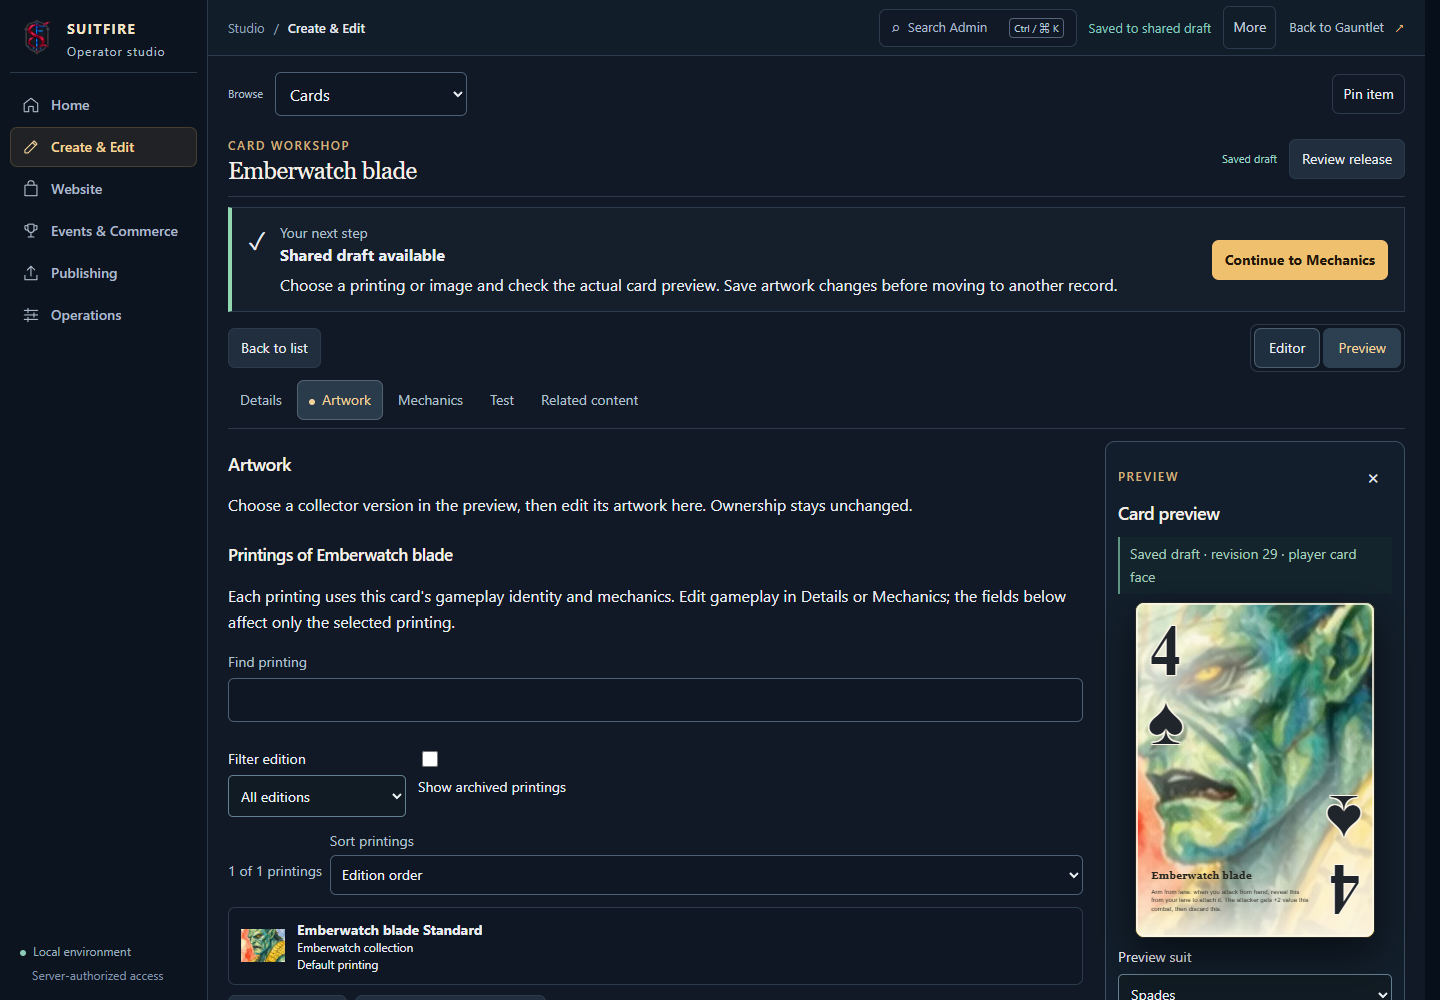
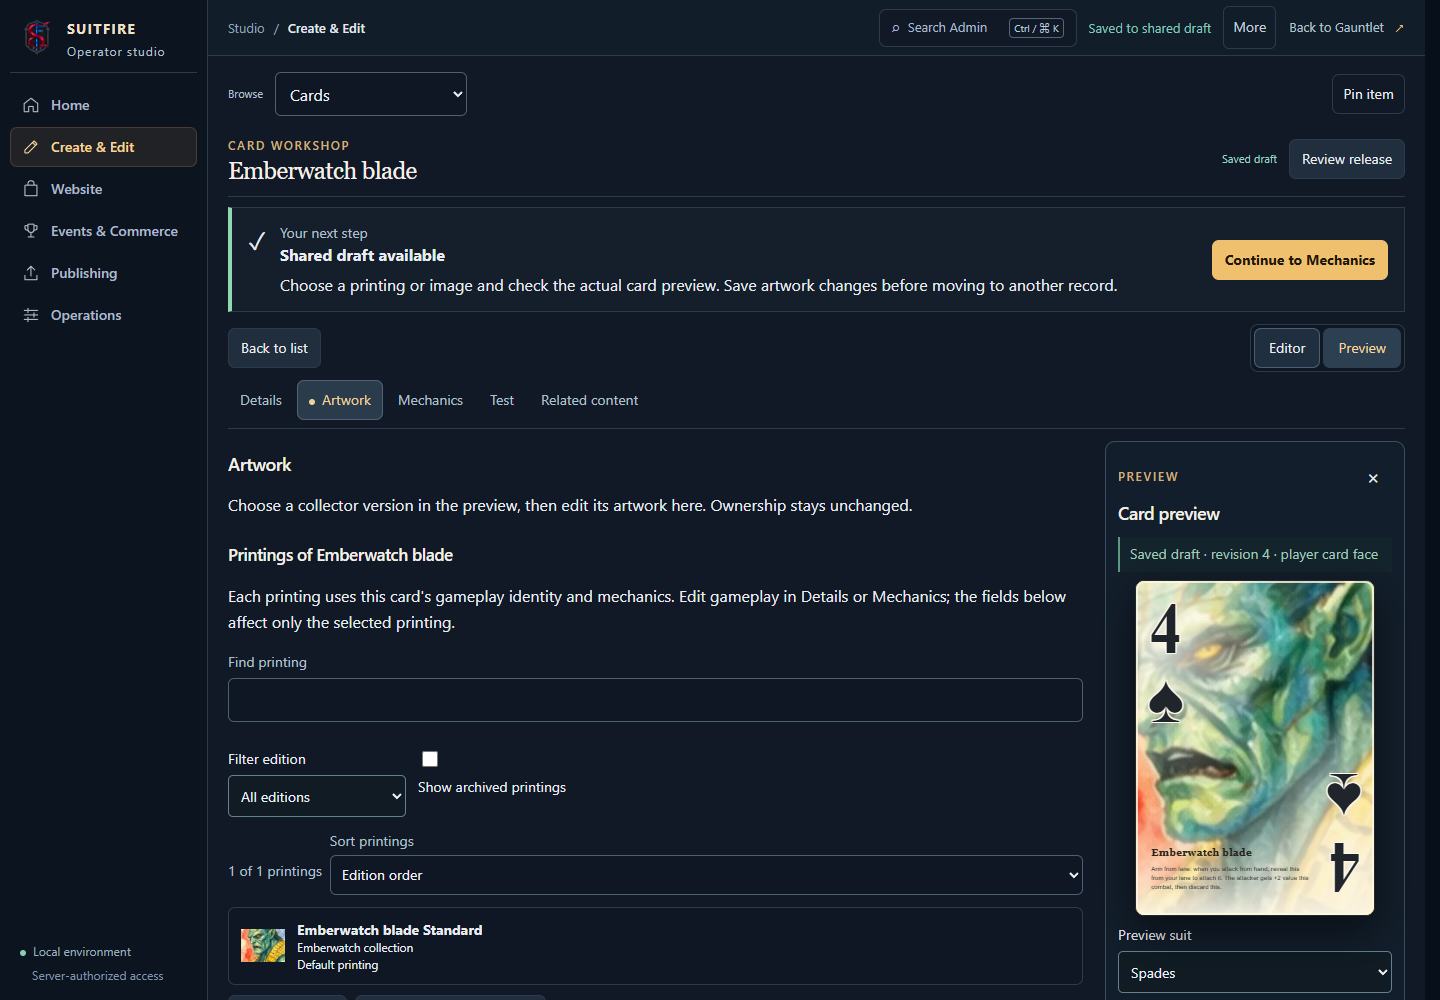
Preserve catalog position and guide tested drafts into release review

Changed region(s): [[0.7812, 0.527, 0.9688, 1.0]]

diff --git a/e2e/admin-mechanics.spec.js b/e2e/admin-mechanics.spec.js
@@ -51,10 +51,11 @@ test("operator composes a reusable mechanic, creates a card, executes it and pub
   await page.screenshot({ path: "artifacts/phase2-mechanic-studio.png", fullPage: true });
   await page.setViewportSize({ width: 390, height: 844 }); expect(await page.evaluate(() => document.documentElement.scrollWidth <= window.innerWidth)).toBe(true); expect((await new AxeBuilder({ page }).include(".mechanic-studio").analyze()).violations).toEqual([]); await page.screenshot({ path: "artifacts/phase2-mechanic-mobile.png", fullPage: true }); await page.setViewportSize({ width: 1440, height: 1000 });
   await page.goto("/admin/gauntlet?workshop=sets"); await page.getByRole("button", { name: "Create set", exact: true }).click(); await page.getByLabel("New content name").fill("Browser Studio set"); await page.getByRole("button", { name: "Save new set to draft", exact: true }).click();
-  if(await page.getByRole("button", { name: "Back to list", exact: true }).isVisible()) await page.getByRole("button", { name: "Back to list", exact: true }).click();
-  await page.getByRole("button", { name: "Create card", exact: true }).click(); await page.getByLabel("New content name").fill("Browser Studio guard"); await page.getByLabel("Mechanical effect", { exact: true }).selectOption(mechanic.id);
+  await expect(page.getByRole("heading", { name: "Browser Studio set", exact: true })).toBeVisible();
+  await page.getByRole("button", { name: "Create card in this set", exact: true }).click(); await page.getByLabel("New content name").fill("Browser Studio guard"); await page.getByLabel("Mechanical effect", { exact: true }).selectOption(mechanic.id);
   pending = waitForBufferedAdminResponse(page, r => r.url().endsWith("/authoring/create") && r.request().method() === "POST"); await page.getByRole("button", { name: "Save new card to draft", exact: true }).click();
   const created = await (await pending).json(), card = created.draft.snapshot.domains.cards.at(-1); expect(card.effect.mechanicId).toBe(mechanic.id);
+  expect(created.draft.snapshot.domains.sets.find(row => row.name === "Browser Studio set").members).toContain(card.id);
   await cardSection(page, "Mechanics"); await page.getByRole("button", { name: "Open Mechanics Studio", exact: true }).click(); await expect(page.getByLabel("Mechanic name", { exact: true })).toHaveValue(mechanic.name);
   await page.getByRole("button", { name: "Test Browser Studio guard in engine", exact: true }).click();
   const harness = page.getByRole("region", { name: "Real engine playtest" }); await harness.getByRole("combobox", { name: "Test content", exact: true }).selectOption("draft");
@@ -67,6 +68,7 @@ test("operator composes a reusable mechanic, creates a card, executes it and pub
   await harness.getByRole("combobox", { name: "Action", exact: true }).selectOption(action.id); await harness.getByRole("group", { name: /^Payment cards/ }).getByRole("checkbox", { name: /Ace|A of|14/ }).check();
   pending = waitForBufferedAdminResponse(page, r => r.url().endsWith("/playtest/command")); await harness.getByRole("button", { name: "Execute selected action", exact: true }).click(); const result = await (await pending).json();
   expect(result.playtest.game.handAttacks[0].effectiveValue).toBe(card.value + 2); expect(result.playtest.game.players[1].life).toBe(life + 1);
+  await expect(page.getByLabel("Your next step", { exact: true })).toContainText("Saved draft tested");
   await page.screenshot({ path: "artifacts/phase2-mechanic-engine.png", fullPage: true });
   await previewSavedDraft(page); await page.getByLabel("Release name").fill("Browser Studio verified"); await page.getByRole("button", { name: "Publish release", exact: true }).click(); await page.getByRole("button", { name: "Confirm publish", exact: true }).click(); await expect(page.getByText("No saved changes to review.", { exact: true })).toBeVisible();
   const manifest = (await (await request.get(origin + "/api/game-content")).json()).content; const published = manifest.cards.find(c => c.id === card.id); expect(published.effect.definition.abilities[0].effects[0].amount).toBe(2);

diff --git a/client/src/admin/ContentBrowser.js b/client/src/admin/ContentBrowser.js
@@ -29,7 +29,12 @@ export default function ContentBrowser({ rows, total, domain, selected, busy, on
   const creativeCopy=useCreativeCopy();
 
   const browser = useRef(null);
-  useLayoutEffect(() => { if (browser.current) browser.current.scrollTop = position; }, [domain, position]);
+  useLayoutEffect(() => {
+    // A selected editor hides its catalog. Restore only after it has a size.
+    const node=browser.current,restore=()=>{if(node.clientHeight)node.scrollTop=position;};
+    restore();const observer=typeof ResizeObserver==='function'?new ResizeObserver(restore):null;
+    observer?.observe(node);return()=>observer?.disconnect();
+  }, [domain, position]);
   const manifest = preview?.manifest || preview;
   const changed = id => changes.some(change => change.domain === domain && change.id === id);
   const sorted = [...rows].sort((a,b) => sort === "name" ? contentName(a).localeCompare(contentName(b)) : sort === "changed" ? Number(changed(b.id)) - Number(changed(a.id)) : 0);
@@ -44,5 +49,5 @@ export default function ContentBrowser({ rows, total, domain, selected, busy, on
       const context = entry.status === "archived" ? creativeCopy.workspaceCopy43 : [faction, entry.type || entry.mediaType || entry.status].filter(Boolean).join(" · ") || (domain === "encounters" ? snapshot.domains.campaigns?.find(row => row.id === entry.campaignId)?.commanderName : "Saved content");
       return { id: entry.id, button: <button disabled={busy} title={entry.id} aria-label={`Inspect ${contentName(entry)}`} data-object={entry.id} aria-current={selected === entry.id ? "true" : undefined} onClick={() => onSelect(entry.id)}>{visual && <span className="admin-browser-thumbnail">{image ? <PrivateImage src={image} alt="" loading="lazy" /> : <span aria-hidden="true">{contentName(entry).slice(0,1)}</span>}</span>}<span className="admin-browser-label"><strong>{contentName(entry)}</strong><small>{context}</small>{changed(entry.id) && <span className="admin-badge">Draft changed</span>}</span></button> };
   });
-  return <><p className="admin-browser-count">{rows.length} of {total} records</p><div ref={browser} data-visual={visual || undefined} onScroll={event=>onPosition?.(event.currentTarget.scrollTop)} className="admin-object-list admin-content-browser">{entries.length?<ul>{entries.map(item=><li key={item.id}>{item.button}</li>)}</ul>:<Help topic="workspaceContentBrowser1" className="admin-empty" role="status"/>}</div></>;
+  return <><p className="admin-browser-count">{rows.length} of {total} records</p><div ref={browser} data-visual={visual || undefined} onScroll={event=>event.currentTarget.clientHeight&&onPosition?.(event.currentTarget.scrollTop)} className="admin-object-list admin-content-browser">{entries.length?<ul>{entries.map(item=><li key={item.id}>{item.button}</li>)}</ul>:<Help topic="workspaceContentBrowser1" className="admin-empty" role="status"/>}</div></>;
 }

diff --git a/e2e/admin-creative.spec.js b/e2e/admin-creative.spec.js
@@ -117,7 +117,7 @@ await page.goto('/admin/gauntlet');await page.getByRole('button',{name:'Card',ex
  await workspaceSection(page,'Card Workshop','Test');const harness=page.getByRole('region',{name:'Real engine playtest',exact:true});await harness.getByRole('combobox',{name:'Test content',exact:true}).selectOption('draft');
  let pending=waitForBufferedAdminResponse(page,response=>response.url().endsWith('/authoring/playtest'));await harness.getByRole('button',{name:'Start draft duel playtest',exact:true}).click();const session=(await(await pending).json()).playtest;
  expect(session.subject.id).toBe(card.id);expect(session.game.players[1].hand.some(row=>(row.gameplayCardId||row.definitionId)===card.id)).toBe(true);
- const action=session.legalActions.find(row=>row.type==='passPriority');await harness.getByRole('combobox',{name:'Action',exact:true}).selectOption(action.id);pending=waitForBufferedAdminResponse(page,response=>response.url().endsWith('/playtest/command'));await harness.getByRole('button',{name:'Execute selected action',exact:true}).click();expect((await pending).ok()).toBeTruthy();await expect(harness.getByText('Accepted by the engine',{exact:true})).toBeVisible();await page.locator('#workshop-context').scrollIntoViewIfNeeded();await capture(page,'02-new-card-tested');
+ const action=session.legalActions.find(row=>row.type==='passPriority');await harness.getByRole('combobox',{name:'Action',exact:true}).selectOption(action.id);pending=waitForBufferedAdminResponse(page,response=>response.url().endsWith('/playtest/command'));await harness.getByRole('button',{name:'Execute selected action',exact:true}).click();expect((await pending).ok()).toBeTruthy();await expect(harness.getByText('Accepted by the engine',{exact:true})).toBeVisible();await expect(page.getByLabel('Your next step',{exact:true})).toContainText('Saved draft tested');await page.locator('#workshop-context').scrollIntoViewIfNeeded();await capture(page,'02-new-card-tested');
  const tested=await status(request);expect(tested.draft.playtestedHash).toBe(tested.draft.hash);await publish(page,'Emberwatch card acceptance','02-new-card-release');
  const released=await(await request.get(origin+'/api/game-content')).json();expect(released.content.contentVersion).toBe((await status(request)).activeReleaseId);expect(released.content.cards.find(row=>row.id===card.id).name).toBe('Emberwatch blade');expect(released.content.collectorVariants.find(row=>row.variantId===card.defaultVariantId).presentation.illustration).toContain(image.id);
  fs.writeFileSync(path.join(output,'created-card.json'),JSON.stringify({id:card.id,effect:card.effect,set:state.draft.snapshot.domains.sets.find(row=>row.members.includes(card.id)),artwork:image.id,testedHash:tested.draft.hash,release:released.content.contentVersion},null,2));

diff --git a/client/src/admin/WorkshopJourney.js b/client/src/admin/WorkshopJourney.js
@@ -9,7 +9,8 @@ export default function WorkshopJourney({selection, browsing, sections, section,
   const mode=!selection || browsing?'choose':journey.blocked?'blocked':journey.creating?'create':journey.dirty?'save':journey.issue?'fix':testing && journey.draft && !journey.tested?'test':journey.draft?'saved':'edit';
   const next=sections?.[sections.findIndex(([id])=>id===section)+1];
   const describe=['edit','saved'].includes(mode);
-  const detail=describe ? copy.domains[session.target.domain] || copy.sections[section] || copy[mode][1] : copy[mode][1];
+  const ready=testing && mode==='saved' && journey.tested, wording=copy[ready?'tested':mode] || copy[mode];
+  const detail=describe && !ready ? copy.domains[session.target.domain] || copy.sections[section] || wording[1] : wording[1];
   const goToSave=()=>{
     const root=container.current;
     const invalid=[...root.querySelectorAll('input,select,textarea')].find(el=>!el.disabled && el.getClientRects().length && !el.validity.valid);
@@ -18,10 +19,10 @@ export default function WorkshopJourney({selection, browsing, sections, section,
     if(target){if(target.tagName==='FORM')target.tabIndex=-1;target.scrollIntoView({block:'center'});target.focus();}
   };
   const goToTest=()=>{const target=container.current.querySelector('#workshop-test select');target?.scrollIntoView({block:'center'});target?.focus();};
-  const action=mode==='test'?[copy.testAction,goToTest]:testing && describe && journey.tested?[copy.review,journey.review]:mode==='save'?[copy.saveAction,goToSave]:mode==='fix'?[copy.fixAction,journey.fix]:describe && preview && !showPreview?[copy.preview,onPreview]:describe && next?[copy.next+' '+next[1],()=>onSection(next[0])]:describe && journey.draft?[copy.review,journey.review]:null;
+  const action=mode==='test'?[copy.testAction,goToTest]:ready?[copy.review,journey.review]:mode==='save'?[copy.saveAction,goToSave]:mode==='fix'?[copy.fixAction,journey.fix]:describe && preview && !showPreview?[copy.preview,onPreview]:describe && next?[copy.next+' '+next[1],()=>onSection(next[0])]:describe && journey.draft?[copy.review,journey.review]:null;
   return <section className="admin-journey" data-state={mode} aria-label={copy.label}>
     <span className="admin-journey-symbol" aria-hidden="true">{mode==='saved'?'✓':['blocked','fix'].includes(mode)?'!':'◇'}</span>
-    <div><small>{copy.label}</small><strong>{copy[mode][0]}</strong><p>{mode==='fix'?journey.issue.message:detail}</p></div>
+    <div><small>{copy.label}</small><strong>{wording[0]}</strong><p>{mode==='fix'?journey.issue.message:detail}</p></div>
     {action && <button type="button" disabled={journey.busy} className="admin-primary" onClick={action[1]}>{action[0]}</button>}
   </section>;
 }

diff --git a/client/src/admin/WorkshopJourney.test.js b/client/src/admin/WorkshopJourney.test.js
@@ -17,9 +17,12 @@ test('an untested saved revision stays on Test and qualified evidence leads to r
  const review=jest.fn();HTMLElement.prototype.scrollIntoView=jest.fn();
  const props={section:'test',sections:[['test','Test'],['related','Related content']],children:<section id="workshop-test"><select aria-label="Test source"><option>Saved draft</option></select></section>};
  const view=renderJourney({draft:true,tested:false,review},props);
+ expect(screen.getByLabelText('Your next step')).toHaveTextContent('Test your saved changes');
  expect(screen.queryByRole('button',{name:'Continue to Related content'})).not.toBeInTheDocument();
  fireEvent.click(screen.getByRole('button',{name:'Go to test controls'}));expect(screen.getByLabelText('Test source')).toHaveFocus();
  view.unmount();renderJourney({draft:true,tested:true,review},props);
+ expect(screen.getByLabelText('Your next step')).toHaveTextContent('Saved draft tested');
+ expect(screen.getByLabelText('Your next step')).toHaveTextContent('Review all saved changes before publishing.');
  fireEvent.click(screen.getByRole('button',{name:'Review saved changes'}));expect(review).toHaveBeenCalledTimes(1);
 });
 test('conflicts never suggest continuing or reviewing',()=>{

diff --git a/client/src/admin/StudioTheme.css b/client/src/admin/StudioTheme.css
@@ -44,7 +44,7 @@
 .admin-workspace .catalog-open .design-list-toggle{display:block}
 .admin-workspace .catalog-open .design-selection{display:block}
 .catalog-open .admin-browser-tools{display:flex;flex-wrap:wrap;gap:12px}.catalog-open .admin-browser-tools label{min-width:140px;flex:1}
-.catalog-open .admin-content-browser{max-height:70vh;overflow:auto}
+.admin-workspace .design-workshop.catalog-open .design-selection .admin-content-browser{max-height:70vh;overflow:auto}
 .catalog-open .admin-content-browser[data-visual] ul{display:grid;grid-template-columns:repeat(auto-fill,minmax(180px,1fr));gap:18px}
 .catalog-open .admin-content-browser[data-visual] li{min-width:0}
 .admin-workspace .catalog-open .admin-content-browser[data-visual] button{height:100%;display:flex;flex-direction:column;align-items:stretch;padding:0;overflow:hidden;background:var(--admin-surface);border:1px solid transparent;border-radius:12px}

diff --git a/e2e/admin.spec.js b/e2e/admin.spec.js
@@ -654,6 +654,8 @@ test("Encounter Workshop keeps editing and engine evidence tied to the correct s
   expect((await new AxeBuilder({ page }).include('[aria-label="Encounter Workshop"]').analyze()).violations).toEqual([]);
   expect(await page.evaluate(() => document.documentElement.scrollWidth <= innerWidth)).toBeTruthy();
   await encounterSection(page, "preview");
+  // Preview keeps the Story section selected; exercise an actual section change.
+  await encounterSection(page, "setup");
   await page.getByRole("combobox", { name: "Encounter Workshop section", exact: true }).focus();
   await page.getByRole("combobox", { name: "Encounter Workshop section", exact: true }).selectOption("story");
   await expect(page.locator("#workshop-story")).toBeFocused();

diff --git a/e2e/para-runtime.spec.js b/e2e/para-runtime.spec.js
@@ -1,7 +1,7 @@
 const { navigatePlayer } = require("./player-navigation");
 const { area: adminArea, paraTab, identity, saveDefinition } = require("./admin-navigation");
 const { origin, clientOrigin } = require("./admin-urls");
-const { test, expect } = require("@playwright/test");
+const { test, expect } = require("./admin-release-test");
 const AxeBuilder = require("@axe-core/playwright").default;
 const fs = require("node:fs"), path = require("node:path");
 

diff --git a/docs/reviews/admin-creative/README.md b/docs/reviews/admin-creative/README.md
@@ -7,7 +7,7 @@ This update extends PR #116 with working card/artwork, Website, campaign, format
 1. **Create.** Home's Card action opens the creation form. Choose an existing set or create one in place, choose a supported executable mechanic, and inspect the player card. [Creation screen](02-new-card.png).
 2. **Choose artwork.** Artwork opens the shared image library for the selected printing. Upload includes attribution; selection retains the exact immutable version. The player card reflects local presentation changes. [Artwork assignment](01-card-artwork-local.png).
 3. **Save.** The gold Save bar names the record and changed fields. Saving creates a shared draft; it does not publish. The saved card and exact artwork survive reload. [Saved card](02-new-card-saved.png).
-4. **Test.** The next-step cue opens Test and focuses the real source control. Gameplay changes need an accepted command against the current saved draft. Editing again invalidates that receipt. [Tested card](02-new-card-tested.png), [phone test guidance](10-phone-test-guidance.png).
+4. **Test.** The next-step cue opens Test and focuses the real source control. Gameplay changes need an accepted command against the current saved draft. The cue then confirms “Saved draft tested” and leads directly to release review. Editing again invalidates that receipt. [Tested card](02-new-card-tested.png), [phone test guidance](10-phone-test-guidance.png).
 5. **Publish.** Shared review combines saved changes from every workspace. Its readiness cue highlights the next missing validation, presentation preview or engine test. Publication names the complete release; rollback uses retained release identity. [Card ready to publish](02-new-card-release.png), [shared review](08-shared-review.png), [published player](09-published-player.png), [rollback](09-rolled-back.png).
 
 The active section has a visible dot and accessible current-step state. Gold indicates the next action or unsaved work; saved/tested status uses text and recorded evidence as well as color. Back to list preserves the editor buffer. Leaving with local changes opens Keep editing, Save and continue, or Discard local changes. [Phone preservation](10-phone-unsaved.png).
@@ -42,6 +42,6 @@ The six cases in `e2e/admin-creative.spec.js` jointly cover these ten workflows.
 
 The release workflow runs the complete client/server suites, content contracts, browser and accessibility journeys, security audits and performance gates. The new creative suite is included in the existing Admin release job. Local qualification includes 60 engine/tooling checks, four build-configuration checks, validation of 1,218 cards and 2,732 immutable asset references, and all 70 approved artwork hashes.
 
-Local verification passes all six creative browser cases, covering the ten acceptance workflows. The full client run passed 135 suites and 1,084 tests, with the two subsequently added audio/rollout regressions passing in focused runs. The full server run passed 681 of 682 tests; its only failure was Windows permission to create a deliberately unsafe junction, and all four backup tests passed when rerun with that permission. The added set-membership regression passes. All three dependency audits report zero vulnerabilities. [Browser results](browser-verification.json) and [unchanged bundle budgets](bundle.json) record the local evidence.
+Local verification passes all six creative browser cases, covering the ten acceptance workflows, and all twelve measured operator activities. Hosted checks confirm 683 server tests and 135 client suites / 1,087 client tests. The corrected-editor and visual-guidance groups pass, including phone accessibility, native 200% zoom, and unsaved-work protection. Immutable asset releases, authored deck purchases/restarts, separate Gold/Gem purchases, and production editor/support paths pass. All three dependency audits report zero vulnerabilities. [Browser results](browser-verification.json) and [unchanged bundle budgets](bundle.json) record the original creative evidence; the latest PR checks remain the release authority.
 
 Final check and deployment status is recorded with PR #116. Passing local journeys alone are not a claim that production has deployed. The code release must not publish, discard or overwrite unrelated production content drafts.
